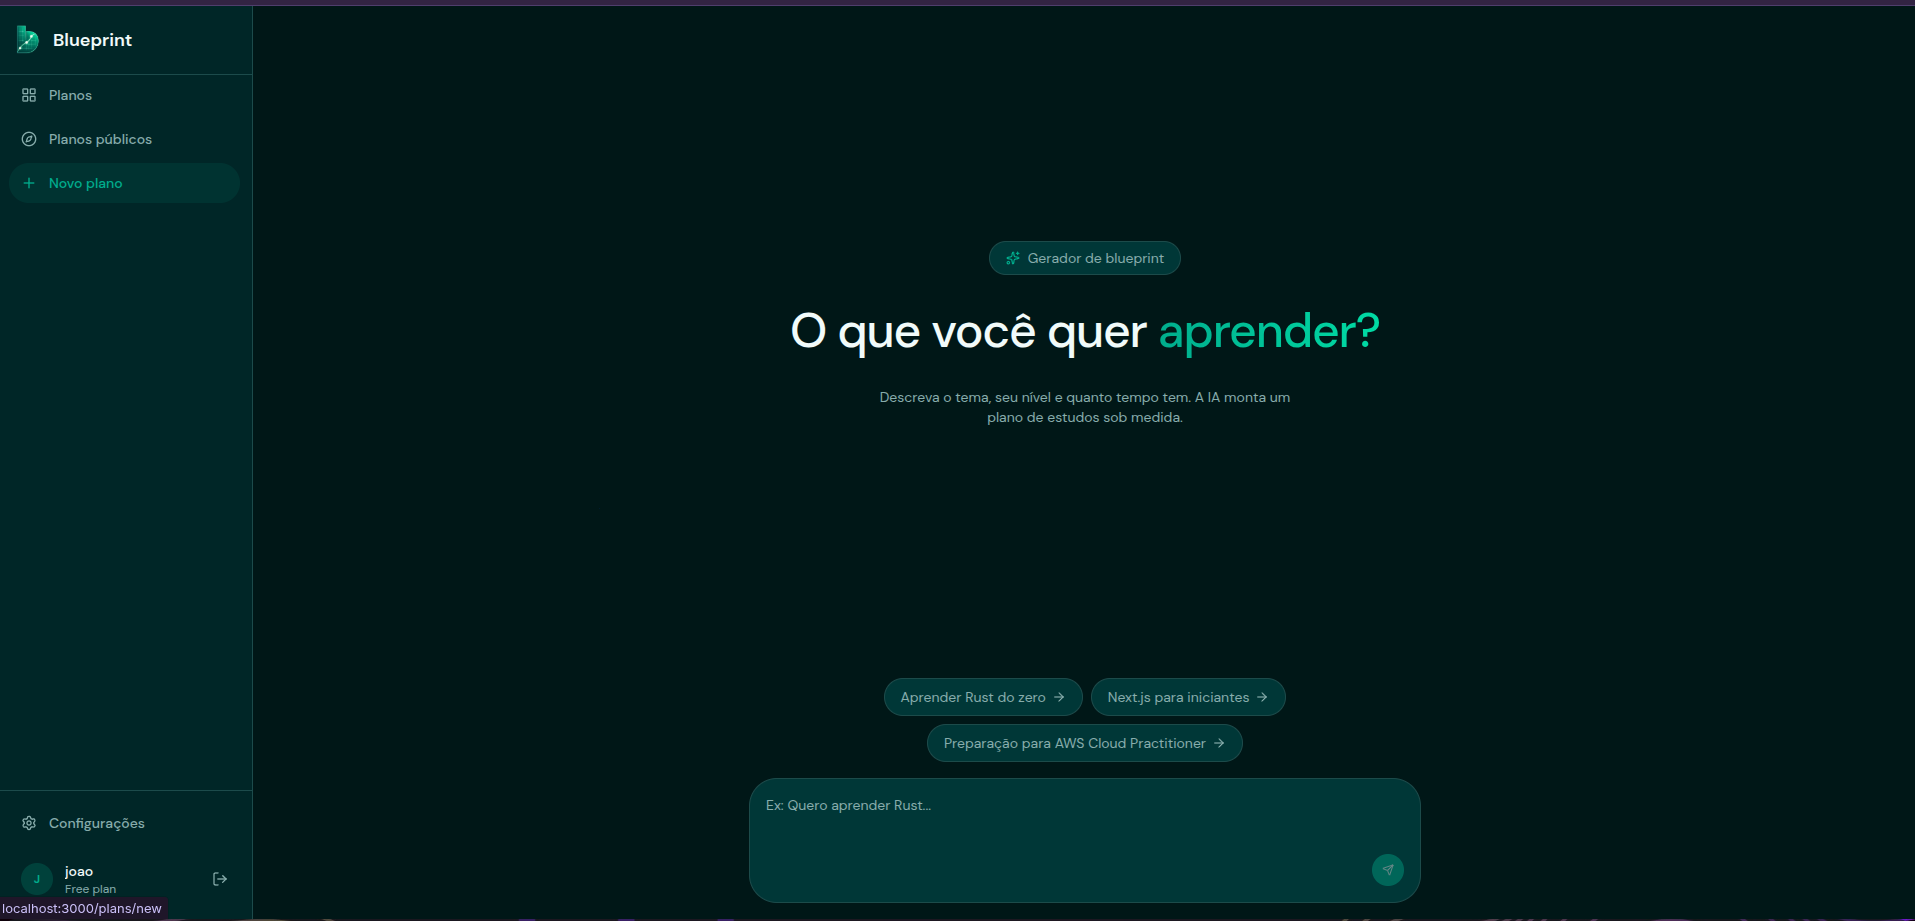
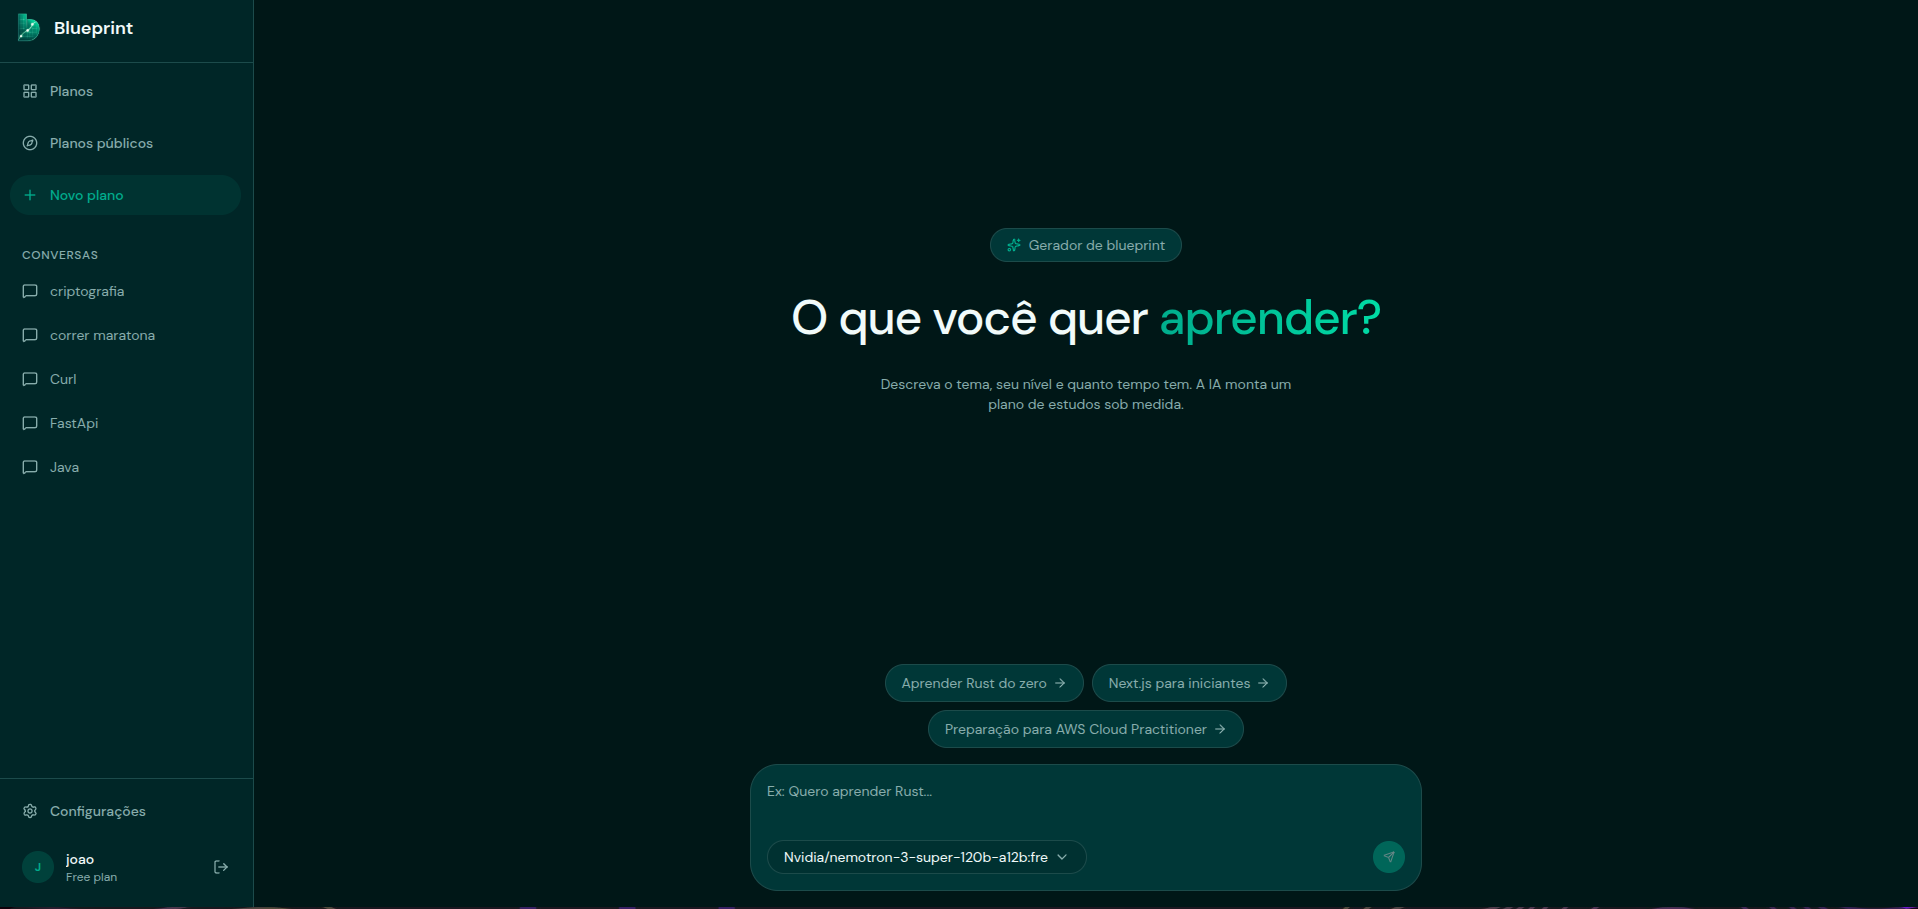
refactor: implement Loading component for improved loading states across multiple pages

diff --git a/app/(auth)/register/page.tsx b/app/(auth)/register/page.tsx
@@ -6,6 +6,7 @@ import { RegisterComponent } from "@/components/auth/RegisterComponent";
 import { authClient } from "@/lib/auth-client";
 import { useRouter } from "next/navigation";
 import { useEffect } from "react";
+import { Loading } from "@/components/Loading";
 
 export default function RegisterPage() {
 
@@ -21,24 +22,7 @@ export default function RegisterPage() {
   
     if (isPending) {
       return (
-        <div className="relative flex min-h-screen flex-col items-center justify-center overflow-hidden bg-background text-foreground">
-          <div
-            className="pointer-events-none absolute inset-0"
-            style={{ background: "var(--gradient-hero)" }}
-          />
-          <div className="relative flex flex-col items-center gap-8 fade-up">
-            <div className="relative flex items-center justify-center">
-              <div className="loader-ring absolute inset-0 h-24 w-24 rounded-full" />
-              <div className="flex h-16 w-16 items-center justify-center rounded-2xl shadow-(--shadow-elegant)"/>
-            </div>
-            <div className="flex flex-col items-center gap-1">
-              <h1 className="text-display text-2xl tracking-tight text-foreground">
-                Blueprint
-              </h1>
-              <p className="text-sm text-muted-foreground">Preparando o seu painel...</p>
-            </div>
-          </div>
-        </div>
+        <Loading />
       );
     }
   

diff --git a/app/(dashboard)/DashboardLayoutClient.tsx b/app/(dashboard)/DashboardLayoutClient.tsx
@@ -5,6 +5,7 @@ import { useRouter } from "next/navigation";
 import { Sidebar } from "@/components/sidebar/Sidebar";
 import { authClient } from "@/lib/auth-client";
 import { Menu } from "lucide-react";
+import { Loading } from "@/components/Loading";
 
 interface DashboardLayoutClientProps {
   children: React.ReactNode;
@@ -26,24 +27,7 @@ export function DashboardLayoutClient({
 
   if (isPending || !user) {
     return (
-      <div className="relative flex min-h-screen flex-col items-center justify-center overflow-hidden bg-background text-foreground">
-        <div
-          className="pointer-events-none absolute inset-0"
-          style={{ background: "var(--gradient-hero)" }}
-        />
-        <div className="relative flex flex-col items-center gap-8 fade-up">
-          <div className="relative flex items-center justify-center">
-            <div className="loader-ring absolute inset-0 h-24 w-24 rounded-full" />
-            <div className="flex h-16 w-16 items-center justify-center rounded-2xl shadow-(--shadow-elegant)"/>
-          </div>
-          <div className="flex flex-col items-center gap-1">
-            <h1 className="text-display text-2xl tracking-tight text-foreground">
-              Blueprint
-            </h1>
-            <p className="text-sm text-muted-foreground">Preparando o seu painel...</p>
-          </div>
-        </div>
-      </div>
+      <Loading />
     );
   }
 

diff --git a/app/(auth)/login/page.tsx b/app/(auth)/login/page.tsx
@@ -6,6 +6,7 @@ import { LoginComponent } from "@/components/auth/LoginComponent";
 import { authClient } from "@/lib/auth-client";
 import { useRouter } from "next/navigation";
 import { useEffect } from "react";
+import { Loading } from "@/components/Loading";
 
 export default function LoginPage() {
 
@@ -21,24 +22,7 @@ export default function LoginPage() {
 
   if (isPending) {
     return (
-      <div className="relative flex min-h-screen flex-col items-center justify-center overflow-hidden bg-background text-foreground">
-        <div
-          className="pointer-events-none absolute inset-0"
-          style={{ background: "var(--gradient-hero)" }}
-        />
-        <div className="relative flex flex-col items-center gap-8 fade-up">
-          <div className="relative flex items-center justify-center">
-            <div className="loader-ring absolute inset-0 h-24 w-24 rounded-full" />
-            <div className="flex h-16 w-16 items-center justify-center rounded-2xl shadow-(--shadow-elegant)"/>
-          </div>
-          <div className="flex flex-col items-center gap-1">
-            <h1 className="text-display text-2xl tracking-tight text-foreground">
-              Blueprint
-            </h1>
-            <p className="text-sm text-muted-foreground">Preparando o seu painel...</p>
-          </div>
-        </div>
-      </div>
+      <Loading />
     );
   }
 

diff --git a/components/Loading.tsx b/components/Loading.tsx
@@ -1,0 +1,26 @@
+import { Waves } from "lucide-react"
+
+export const Loading = () => {
+    return (
+        <div className="relative flex min-h-screen flex-col items-center justify-center overflow-hidden bg-background text-foreground">
+            <div
+                className="pointer-events-none absolute inset-0"
+                style={{ background: "var(--gradient-hero)" }}
+            />
+            <div className="relative flex flex-col justify-center items-center gap-8 fade-up">
+                <div className="relative flex items-center justify-center">
+                    <div className="loader-ring absolute h-24 w-24 rounded-full" />
+                    <div className="flex h-16 w-16 items-center justify-center bg-primary rounded-2xl shadow-(--shadow-elegant)">
+                        <Waves className="h-8 w-8 text-foreground" />
+                    </div>
+                </div>
+                <div className="flex flex-col items-center gap-1">
+                    <h1 className="text-display text-2xl tracking-tight text-foreground">
+                        Blueprint
+                    </h1>
+                    <p className="text-sm text-muted-foreground">Estamos quase prontos...</p>
+                </div>
+            </div>
+        </div>
+    )
+}

diff --git a/app/page.tsx b/app/page.tsx
@@ -7,6 +7,7 @@ import { RESOURCES, STEPS } from "@/constants/index";
 import { NewPlanButton } from "@/components/NewPlanButton";
 import Image from "next/image";
 import { authClient } from "@/lib/auth-client";
+import { Button } from "@/components/ui/button";
 
 export default function Home() {
 
@@ -41,9 +42,15 @@ export default function Home() {
           </div>
 
          <div className="flex items-center gap-2 sm:gap-4 text-sm">
-            <Link href={hasSession && !isPending ? "/plans" : "/login"} className="text-muted-foreground hover:text-foreground transition-colors">
-              {hasSession ? "Planos" : "Entrar"}
-            </Link>
+            <Button
+            disabled={isPending}
+            variant="ghost"
+            >
+              <Link href={hasSession && !isPending ? "/plans" : "/login"} className="text-muted-foreground hover:text-foreground transition-colors">
+                {hasSession ? "Planos" : "Entrar"}
+              </Link>
+            </Button>
+            
             <NewPlanButton hasSession={hasSession} className="btn-primary rounded-full px-3 py-1.5 text-primary-foreground sm:px-4" />
           </div>
         </nav>

diff --git a/app/(dashboard)/plans/[id]/page.tsx b/app/(dashboard)/plans/[id]/page.tsx
@@ -10,15 +10,7 @@ interface PlanDetailsPageProps {
 
 export default function PlanDetailsPage({ params }: PlanDetailsPageProps) {
     const { id: planId } = use(params);
-    const { data: session, isPending } = authClient.useSession();
-
-    if (isPending) {
-        return (
-            <div className="flex min-h-screen items-center justify-center">
-                <p className="text-muted-foreground">Carregando...</p>
-            </div>
-        );
-    }
+    const { data: session } = authClient.useSession();
 
     const userId = session?.user.id;
     const userRole = session?.user.role;

diff --git a/app/(dashboard)/explore/page.tsx b/app/(dashboard)/explore/page.tsx
@@ -4,15 +4,7 @@ import { Explore } from "@/components/explore/Explore";
 import { authClient } from "@/lib/auth-client";
 
 export default function ExplorePage() {
-    const { data: session, isPending } = authClient.useSession();
-
-    if (isPending) {
-        return (
-            <div className="flex min-h-screen items-center justify-center">
-                <p className="text-muted-foreground">Carregando...</p>
-            </div>
-        );
-    }
+    const { data: session } = authClient.useSession();
 
     const userId = session?.user.id;
 

diff --git a/app/(dashboard)/admin/page.tsx b/app/(dashboard)/admin/page.tsx
@@ -1,6 +1,7 @@
 'use client';
 
 import { AdminPage } from "@/components/admin/AdminPage";
+import { Loading } from "@/components/Loading";
 import { authClient } from "@/lib/auth-client";
 import { useRouter } from "next/navigation";
 import { useEffect } from "react";
@@ -17,9 +18,7 @@ export default function AdminPageRoute() {
 
   if (isPending) {
     return (
-      <div className="flex min-h-screen items-center justify-center">
-        <p className="text-muted-foreground">Carregando...</p>
-      </div>
+      <Loading />
     );
   }
 

diff --git a/app/(dashboard)/plans/page.tsx b/app/(dashboard)/plans/page.tsx
@@ -5,15 +5,7 @@ import { authClient } from "@/lib/auth-client";
 
 export default function PlansPage() {
 
-    const { data: session, isPending } = authClient.useSession();
-    
-      if (isPending) {
-        return (
-          <div className="flex min-h-screen items-center justify-center">
-            <p className="text-muted-foreground">Carregando...</p>
-          </div>
-        );
-      }
+    const { data: session } = authClient.useSession();
 
     const userId = session?.user.id
 

diff --git a/app/(dashboard)/plans/user/[userId]/page.tsx b/app/(dashboard)/plans/user/[userId]/page.tsx
@@ -21,14 +21,6 @@ export default function UserPlansPage({ params }: UserPlansPageProps) {
         }
     }, [isPending, session, router]);
 
-    if (isPending) {
-        return (
-            <div className="flex min-h-screen items-center justify-center">
-                <p className="text-muted-foreground">Carregando...</p>
-            </div>
-        );
-    }
-
     const role = session?.user.role;
 
     if (role !== "admin") {

diff --git a/app/(dashboard)/conversations/[threadId]/page.tsx b/app/(dashboard)/conversations/[threadId]/page.tsx
@@ -21,14 +21,6 @@ export default function ConversationPage({ params }: ConversationPageProps) {
         }
     }, [isPending, session, router]);
 
-    if (isPending) {
-        return (
-            <div className="flex min-h-screen items-center justify-center">
-                <p className="text-muted-foreground">Carregando...</p>
-            </div>
-        );
-    }
-
     if (!session?.user.id) {
         return null;
     }
